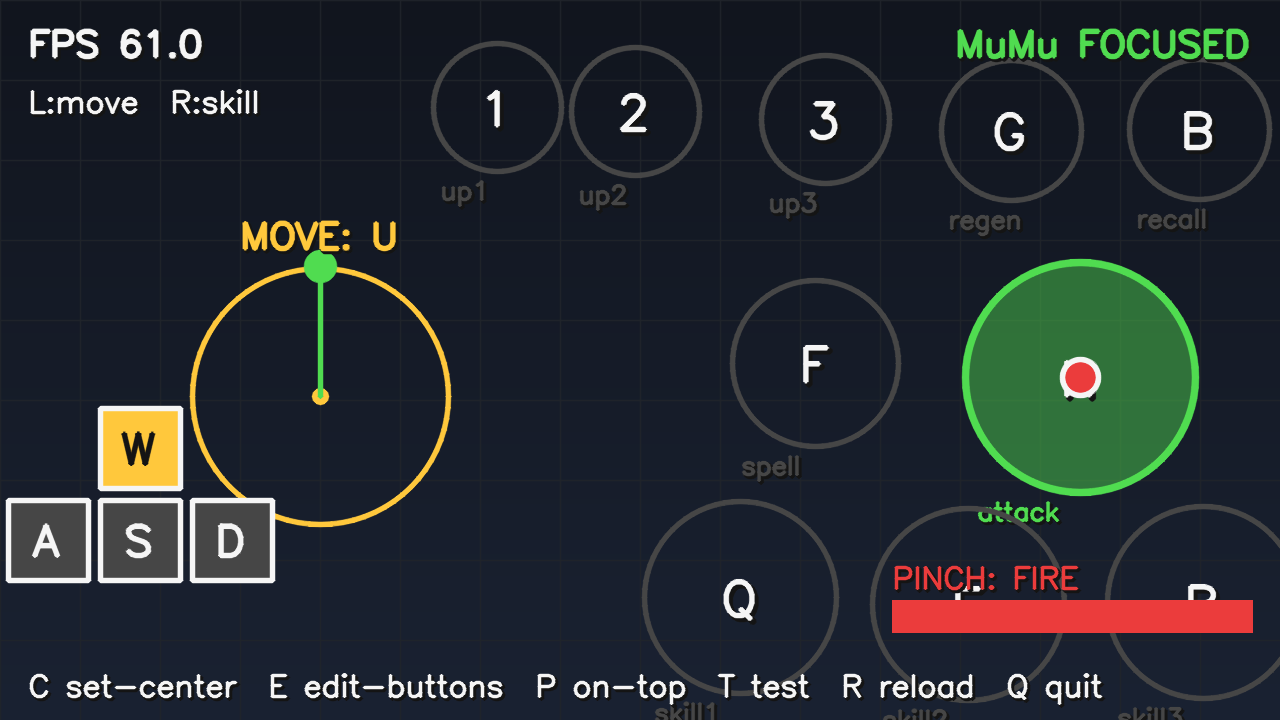
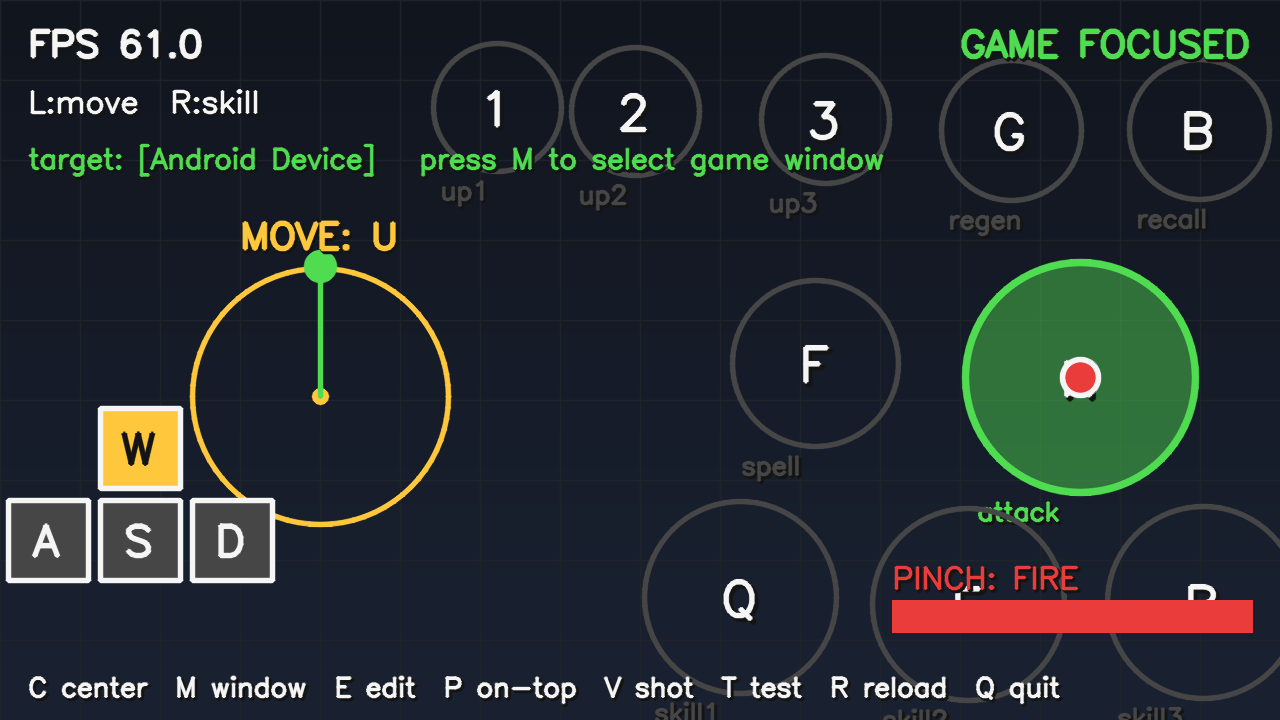
feat: เลือกหน้าต่างเกมในแอปด้วยปุ่ม M (ไม่ hardcode ชื่อหน้าต่าง)
- กด M -> นับถอยหลัง 5 วิ -> คลิกหน้าต่างเกม -> จับชื่อ foreground + เซฟลง config อัตโนมัติ
  รองรับอีมูเลเตอร์อื่น (LDPlayer/BlueStacks) หรือ MuMu ชื่อหน้าต่างต่างเวอร์ชัน
- overlay โชว์ target: [...] + hint "press M" ให้รู้ว่าเล็งหน้าต่างไหนอยู่
- อัปเดต README + screenshot

Changed region(s): [[0.0312, 0.9167, 0.875, 0.9778], [0.0, 0.1833, 0.6875, 0.2444], [0.75, 0.0306, 0.8438, 0.0917]]

diff --git a/main.py b/main.py
@@ -189,7 +189,7 @@ def main():
     print(" ตั้งจุดกลาง joystick: วางมือซ้ายตรงกลางที่ถนัด แล้วกด  C")
     print(" จัดวางปุ่มเอง: กด  E  แล้วลากวงด้วยเมาส์ -> กด S เซฟ")
     print(" TEST MODE:", "ON (ไม่ยิงปุ่มจริง)" if args.test else "OFF (ยิงเข้า MuMu)")
-    print(" ปุ่มลัด: C=ตั้งจุดกลาง  E=จัดวางปุ่ม  P=ลอยหน้าสุด  T=test  R=reload  Q/Esc=ออก")
+    print(" ปุ่มลัด: C=ตั้งจุดกลาง  M=เลือกหน้าต่างเกม  E=จัดวางปุ่ม  P=ลอยหน้าสุด  T=test  R=reload  Q=ออก")
     print("=" * 64)
 
     prev_held: set = set()
@@ -205,6 +205,8 @@ def main():
     topmost_applied = False
     icon_set = False
     shot_n = 0
+    targeting = False       # โหมดเลือกหน้าต่างเกม (กด M)
+    target_deadline = 0.0
 
     try:
         while True:
@@ -261,8 +263,29 @@ def main():
                     preparing = False
                     print("[main] เริ่มยิงปุ่มจริงแล้ว!")
                 else:
-                    countdown = (r, "GET READY - SWITCH TO MuMu",
-                                 "click the MuMu window & get in place")
+                    countdown = (r, "GET READY - SWITCH TO GAME",
+                                 "click the game window & get in place")
+                    held, taps = set(), []
+            elif targeting:
+                r = target_deadline - now
+                if r <= 0:
+                    targeting = False
+                    title = sender.foreground_title()
+                    if title and "Hand Controller" not in title:
+                        cfg.target_window = title
+                        try:
+                            editor.save()   # เขียน cfg (รวม target_window) ลง config.json
+                        except Exception as e:
+                            print(f"[main] เซฟ config ไม่ได้: {e}")
+                        msgbox(f"ตั้งหน้าต่างเกมเป็น:\n\n[{title}]\n\nเซฟแล้ว — เริ่มเล่นได้เลย",
+                               "ML Hand Controller - เลือกหน้าต่างแล้ว", 0x40)
+                    else:
+                        msgbox("ไม่ได้จับหน้าต่างเกม (ต้องคลิกหน้าต่างเกมระหว่างนับถอยหลัง)\n"
+                               "ลองกด M ใหม่ แล้วคลิกหน้าต่างเกม/อีมูเลเตอร์",
+                               "ML Hand Controller", 0x30)
+                else:
+                    countdown = (r, "SELECT GAME WINDOW",
+                                 "click your game / emulator window NOW")
                     held, taps = set(), []
 
             # กด/ปล่อยปุ่มเดินให้ตรงกับทิศ
@@ -279,7 +302,8 @@ def main():
                 print(f"[{status}] tap '{key}'")
 
             focused = (not args.test) and sender.is_target_focused()
-            overlay.render(frame, state, taps, now, fps, args.test, focused, countdown, editor)
+            overlay.render(frame, state, taps, now, fps, args.test, focused, countdown,
+                           editor, cfg.target_window)
             cv2.imshow(win, frame)
             # ตั้งลอยหน้าสุด + ไอคอน ครั้งแรกหลังหน้าต่างโผล่ (ทำครั้งเดียว)
             if topmost and not topmost_applied:
@@ -305,6 +329,11 @@ def main():
                 preparing = False
                 calib_deadline = now + cfg.calibrate_countdown
                 print(f"[main] ตั้งจุดกลางใน {cfg.calibrate_countdown:.0f} วิ — วางมือซ้ายตรงกลาง")
+            elif key == ord("m"):
+                targeting = True
+                calibrating = preparing = False
+                target_deadline = now + 5.0
+                print("[main] เลือกหน้าต่างเกม: คลิกหน้าต่างเกม/อีมูเลเตอร์ภายใน 5 วิ")
             elif key == ord("t"):
                 args.test = not args.test
                 sender.release_all()

diff --git a/overlay.py b/overlay.py
@@ -178,7 +178,7 @@ class OverlayRenderer:
         self._key_box(frame, cx + gap + b // 2, row2, b, "D", "d" in held, s)
 
     # -- แถบสถานะ -----------------------------------------------------------
-    def _draw_status(self, frame, state, fps, test_mode, focused, s):
+    def _draw_status(self, frame, state, fps, test_mode, focused, s, target_window=""):
         h, w = frame.shape[:2]
         m = int(14 * s)
         fs = 0.6 * s
@@ -190,7 +190,7 @@ class OverlayRenderer:
         if test_mode:
             tag, col = "TEST MODE (not sending)", YELLOW
         elif focused:
-            tag, col = "MuMu FOCUSED", GREEN
+            tag, col = "GAME FOCUSED", GREEN
         else:
             tag, col = "NOT FOCUSED", RED
         _text(frame, tag, (w - _text_w(tag, fs, th) - m, y1), fs, col, th)
@@ -201,8 +201,14 @@ class OverlayRenderer:
         hands_tag.append("R:skill" if state.skill_present else "R:-")
         _text(frame, "  ".join(hands_tag), (m, y2), 0.5 * s, WHITE, max(1, int(s)))
 
-        _text(frame, "C set-center  E edit-buttons  P on-top  V shot  T test  R reload  Q quit",
-              (m, h - int(12 * s)), 0.46 * s, WHITE, max(1, int(s)))
+        # หน้าต่างเกมเป้าหมาย + วิธีเปลี่ยน (สำคัญกับคนอื่นที่ใช้อีมูฯ ต่างชื่อ)
+        tw_label = target_window if target_window else "ANY (no check)"
+        tw_col = GREEN if (test_mode or focused) else YELLOW
+        _text(frame, f"target: [{tw_label}]   press M to select game window",
+              (m, y2 + line_h), 0.46 * s, tw_col, max(1, int(s)))
+
+        _text(frame, "C center  M window  E edit  P on-top  V shot  T test  R reload  Q quit",
+              (m, h - int(12 * s)), 0.44 * s, WHITE, max(1, int(s)))
 
     # -- นับถอยหลังกลางจอ ---------------------------------------------------
     def _draw_countdown(self, frame, remaining, title, sub, s):
@@ -247,7 +253,7 @@ class OverlayRenderer:
 
     # -- render หลัก --------------------------------------------------------
     def render(self, frame, state, taps, now, fps,
-               test_mode, focused, countdown=None, editor=None):
+               test_mode, focused, countdown=None, editor=None, target_window=""):
         s = frame.shape[1] / 640.0
         self.note_taps(taps, now)
 
@@ -258,7 +264,7 @@ class OverlayRenderer:
         self._draw_hand(frame, state.skiller_hand, s, ORANGE)
         self._draw_curl_meter(frame, state, s)
         self._draw_key_hud(frame, state, s)
-        self._draw_status(frame, state, fps, test_mode, focused, s)
+        self._draw_status(frame, state, fps, test_mode, focused, s, target_window)
         if editor is not None and editor.active:
             self._draw_editor(frame, editor, s)
         if countdown is not None:

diff --git a/README.md b/README.md
@@ -49,11 +49,12 @@
 
 | ปุ่มลัดในแอป | | | |
 |---|---|---|---|
-| `C` ตั้งจุดกลางจอย | `E` จัดวางปุ่ม (ลากเมาส์) | `P` preview ลอยหน้าสุด | `V` ถ่ายรูปหน้าจอ |
-| `T` สลับ test/ยิงจริง | `R` reload config | `Q`/`Esc` ออก | `S`/`[` `]` (ในโหมด E) เซฟ/ปรับขนาด |
+| `C` ตั้งจุดกลางจอย | `M` **เลือกหน้าต่างเกม** | `E` จัดวางปุ่ม (ลากเมาส์) | `P` preview ลอยหน้าสุด |
+| `V` ถ่ายรูปหน้าจอ | `T` สลับ test/ยิงจริง | `R` reload config | `Q`/`Esc` ออก |
 
-> ค่าตั้ง `config.json` อยู่ที่ `%LOCALAPPDATA%\MLHandController\` (แก้เอง หรือใช้โหมด `E` แล้ว `S` เซฟ)
-> • อยากรันจากซอร์ส/แก้โค้ดเอง → ดูข้อ 1 ด้านล่าง
+> **ใช้อีมูเลเตอร์อื่น (LDPlayer/BlueStacks) หรือหน้าต่างชื่อไม่ตรง?** กด **`M`** ในแอป → คลิกหน้าต่างเกมภายใน 5 วิ →
+> แอปจับชื่อหน้าต่างนั้นแล้วเซฟให้อัตโนมัติ (มุมซ้ายบนโชว์ `target: [...]` ว่าตอนนี้เล็งหน้าต่างไหนอยู่)
+> • ค่าตั้งเก็บที่ `%LOCALAPPDATA%\MLHandController\config.json` • อยากรันจากซอร์ส → ดูข้อ 1 ด้านล่าง
 
 ---
 
@@ -184,10 +185,10 @@ Flags: `--camera 1` (เปลี่ยนกล้อง), `--config myconfig.j
 1. รัน **`python test_key.py`** แล้วรีบคลิกหน้าต่าง MuMu — ถ้าอันนี้ก็ไม่เข้า แปลว่าปัญหาอยู่ที่ input ไม่ใช่กล้อง
 2. **ต้องรันเป็น Administrator** (ใช้ `.bat` หรือคลิกขวา Run as administrator) — MuMu รันสิทธิ์สูง ถ้าเราต่ำกว่า Windows บล็อกเงียบ ๆ
 3. **แมป keymapping ใน MuMu แล้วหรือยัง** (ข้อ 2) — ปุ่มในเกมต้องตรงกับ `key` ใน config
-4. **หน้าต่าง MuMu ต้อง focus** — มุมขวาบนต้องขึ้นสีเขียวตอน MuMu อยู่หน้าสุด.
-   หน้าต่างเกม MuMu มักมีชื่อว่า **"Android Device"** (ไม่ใช่ "MuMu") — ค่า default ตั้งเป็นอันนี้ให้แล้ว.
-   ถ้าของคุณชื่ออื่น รัน **`python check_window.py`** แล้วคลิก MuMu เพื่อดูชื่อจริง แล้วเอาไปใส่ `target_window`
-   ใน config (ตั้ง `""` = ยิงตลอดไม่เช็ค focus)
+4. **หน้าต่างเกมต้อง focus** — มุมขวาบนต้องขึ้น `GAME FOCUSED` สีเขียวตอนเกมอยู่หน้าสุด
+   (มุมซ้ายบนโชว์ `target: [...]` ว่าเล็งหน้าต่างไหนอยู่). หน้าต่างเกม MuMu มักชื่อ **"Android Device"** — ตั้ง default ไว้แล้ว
+   - **ถ้าชื่อไม่ตรง / ใช้อีมูฯ อื่น:** กด **`M`** ในแอป → คลิกหน้าต่างเกมภายใน 5 วิ → แอปจับชื่อ+เซฟให้เอง (ง่ายสุด)
+   - หรือแก้ `target_window` ใน config เอง (ตั้ง `""` = ยิงตลอดไม่เช็ค focus) • คนรันจากซอร์สใช้ `python check_window.py` ดูชื่อได้
 5. บางเวอร์ชัน MuMu มีโหมด input หลายแบบ — ลองสลับใน MuMu settings ถ้ายังไม่เข้า
 
 **กล้องไม่ขึ้น / FPS ต่ำ**